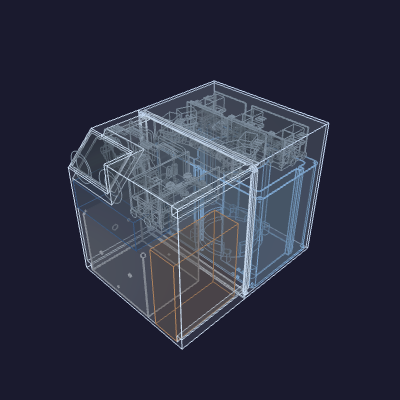
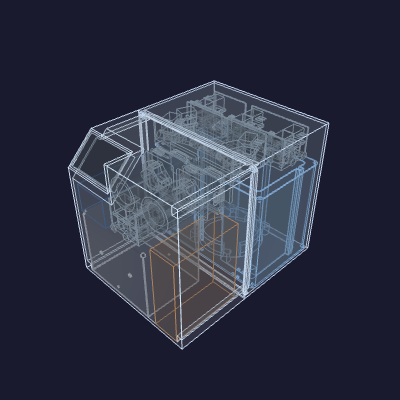
enclosure-assembly: rotate SeaFlo and repack the front pumps + tray
Rotate the SeaFlo pump 90° about Z (long axis now along Y) and rearrange the
front-zone movables so nothing overlaps the front half (walls, ribs, display)
or each other:

  * SeaFlo + bib-gate tray: a shelf on the compressor top (Z ~151-214), both
    laid flat with their long axis along Y, tiled across X — below the display
    and below the pump cases.
  * pump-case-1/-2: front-top (Z 218-294), to the right of the display facet.

Enclosure bounding box is unchanged. Full overlap audit clear.

Changed region(s): [[0.18, 0.3, 0.6, 0.63]]

diff --git a/hardware/printed-parts/enclosure/enclosure-assembly/_contents.py b/hardware/printed-parts/enclosure/enclosure-assembly/_contents.py
@@ -110,32 +110,35 @@ def build():
     # front block; its −Y service/dispense ports face forward (−Y).
     placed["foam-shell"] = _at(foam, 0.0, FRONT_DEPTH, 0.0)
 
-    # --- Zone D: compressor on the floor front-left; SeaFlo laid flat on the
-    # compressor top; condenser/fan as a panel on the floor, airflow axis across
-    # X. The shroud and condenser are inset from their side walls to clear the
-    # front half's corner ribs.
+    # --- Zone D: refrigeration on the floor — compressor shroud front-left,
+    # condenser/fan as a panel front-right (airflow axis across X). Both inset
+    # from their side walls to clear the front half's corner ribs.
     comp = _rot(_load(COMP_SHROUD), (0, 0, 1), 90.0)   # 178 x 133 x 151
     placed["compressor-shroud"] = _at(comp, SIDE_RIB_INSET, 0.0, 0.0)
     comp_top_z = comp.BoundingBox().zlen               # 151
-    sf_w, sf_d, sf_h = SEAFLO_DIMS                      # [75 x 60 x 175](SEAFLO_DIMS)
-    placed["seaflo-pump"] = _at(_box(sf_h, sf_w, sf_d), 0.0, 0.0, comp_top_z)
-    # Condenser/fan: thin airflow axis across X, inset from the +X wall.
     cond = _box(CONDENSER_AIRFLOW, CONDENSER_FACE_B, CONDENSER_FACE_A)  # 56 x 151 x 178
     placed["condenser+fan"] = _at(cond, cold_w - CONDENSER_AIRFLOW - SIDE_RIB_INSET, 0.0, 0.0)
 
-    # --- Zone C: two pump cases (cartridge under the funnel), front-top.
+    # --- Shelf on the compressor top, below the pump cases and the display:
+    # the SeaFlo pump and the bib-gate valve tray, both laid flat with their
+    # long axis along Y and tiled across X. SeaFlo inset to clear the left ribs.
+    sf_w, sf_d, sf_h = SEAFLO_DIMS                      # [75 x 60 x 175](SEAFLO_DIMS)
+    seaflo = _rot(_box(sf_h, sf_w, sf_d), (0, 0, 1), 90.0)      # 75 x 175 x 60
+    placed["seaflo-pump"] = _at(seaflo, SIDE_RIB_INSET, 0.0, comp_top_z)
+    bib = _rot(_load(TRAY_STEPS["bib-gate"]), (0, 0, 1), 90.0)  # 75 x 139
+    placed["bib-gate"] = _at(bib, 94.0, 0.0, comp_top_z)
+
+    # --- Zone C: two pump cases (cartridge under the funnel), front-top, to the
+    # right of the display facet (which takes the top-front-left corner).
     pc1 = _cycle_xyz_to_yzx(_load(PUMP_CASE))          # 74 x 136 x 76
     pc2 = _cycle_xyz_to_yzx(_load(PUMP_CASE))
-    placed["pump-case-1"] = _at(pc1, 0.0, 0.0, top_z)
-    placed["pump-case-2"] = _at(pc2, 84.0, 0.0, top_z)
+    placed["pump-case-1"] = _at(pc1, 116.0, 0.0, top_z)
+    placed["pump-case-2"] = _at(pc2, 194.0, 0.0, top_z)
 
-    # --- Zone B: the four valve-manifold trays, laid FLAT (~63 mm tall) and
-    # tiled across the top — three back-top above the cold core, the fourth
-    # turned 90° into the front-top gap beside the pump cases. Stand-in.
+    # --- Zone B: three valve-manifold trays, laid FLAT (~63 mm tall) back-top
+    # above the cold core. Stand-in.
     placed["source-select"] = _at(_load(TRAY_STEPS["source-select"]), 0.0, FRONT_DEPTH, top_z)
     placed["nozzle-gate"]   = _at(_load(TRAY_STEPS["nozzle-gate"]),   0.0, FRONT_DEPTH + 98.0, top_z)
     placed["bag-circuit"]   = _at(_load(TRAY_STEPS["bag-circuit"]), 105.0, FRONT_DEPTH + 98.0, top_z)
-    bib = _rot(_load(TRAY_STEPS["bib-gate"]), (0, 0, 1), 90.0)   # 74 x 139
-    placed["bib-gate"]      = _at(bib, 158.0, 0.0, top_z)
 
     return {n: (s, COLORS[n]) for n, s in placed.items()}
